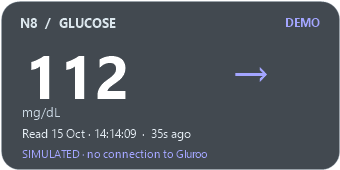
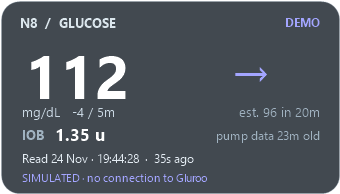
Prepare for public sharing: quick start, troubleshooting, pump-data guide
Add docs/PUMP_DATA.md and tools/tconnectsync (setup, idempotent patch script, hidden runner, upload-gap report). Rework README with requirements, quick start, SmartScreen steps, troubleshooting and console notes; link the latest release. Regenerate screenshots with the IOB row. Add issue templates.

diff --git a/README.md b/README.md
@@ -1,20 +1,40 @@
 # N8 Glucose Overlay
 
-A small native Windows 11 application displaying Gluroo Global Connect glucose readings over your desktop and borderless-windowed games. It includes a transparent, always-on-top, click-through overlay, tray controls, trend arrows, local measurement timestamps, continuously updated reading age, and visible stale/offline states.
+A small native Windows 11 application displaying Gluroo Global Connect glucose readings over your desktop and borderless-windowed games. It includes a transparent, always-on-top, click-through overlay, tray controls, trend arrows, change per 5 minutes, a 20-minute estimate, insulin on board (IOB), local measurement timestamps, continuously updated reading age, and visible stale/offline states.
 
-[Download the Windows release](https://github.com/G8rarror/n8-glucose-overlay/releases/tag/v1.0.0)
+[Download the latest Windows release](https://github.com/G8rarror/n8-glucose-overlay/releases/latest)
 
 ![N8 Glucose Overlay displaying simulated data](docs/overlay-demo.png)
 
+> **Secondary display only.** N8 shows data that may be minutes (glucose) or about an hour (pump data) old. It has no alarms and gives no treatment advice. Use the CGM, pump, or meter for every medical decision. N8 is an independent project, not affiliated with Gluroo, Dexcom, or Tandem.
+
+## What you need
+
+- A Windows 11 PC (Windows 10 with .NET Framework 4.8 should also work but is untested). Nothing else to install.
+- A [Gluroo](https://gluroo.com) account receiving CGM readings (for example from a Dexcom G7), with **Gluroo Global Connect / Nightscout** access turned on.
+- Optional, for the IOB row: pump data reaching Gluroo. See [docs/PUMP_DATA.md](docs/PUMP_DATA.md).
+
+## Quick start
+
+1. Download the **N8-Glucose-Overlay** ZIP from [Releases](https://github.com/G8rarror/n8-glucose-overlay/releases/latest) and extract it (right-click → **Extract All**).
+2. Double-click **N8GlucoseOverlay.exe**. If Windows shows **"Windows protected your PC"**, click **More info → Run anyway** (see [Windows warning](#windows-warning)).
+3. In Gluroo on your phone, find your Nightscout URL and **API Secret Token** (details below).
+4. Paste both into N8's Settings window and click **Save & connect**.
+5. Drag the overlay where you want it (`Ctrl+Alt+G` toggles move mode), then lock it. Run **Install.cmd** if you want a Start menu entry.
+
 ## Run
 
-1. Extract **N8-Glucose-Overlay-1.0.0.zip** to a folder you can write to.
+1. Extract the **N8-Glucose-Overlay** ZIP to a folder you can write to.
 2. Double-click **N8GlucoseOverlay.exe**. No administrator rights are needed.
 3. In Gluroo, open **Connections → DIY / Nightscout (Loop)** and generate or copy your Nightscout URL and credential. Some versions place this under Settings → Gluroo Global Connect Nightscout.
 4. Paste the exact base URL, such as `https://your-id.ns.gluroo.com`, into Settings. Paste the **API Secret Token** with the plain format selected, or choose **API Secret Header (SHA-1)** and paste its 40-character value.
 5. Select **Save & connect**. The first request starts within a second when permitted by the request cooldown. If Gluroo has readings, the overlay displays the latest one. If it is empty, confirm readings are reaching Gluroo on your phone.
 
-The Windows 11 built-in .NET Framework 4.8/4.8.1 is used. No SDK, Node, Python, WebView, account registration, or separate hosting is required to run the release. The executable is unsigned; Windows may show its normal publisher/reputation prompt. Review the included source and build locally if preferred.
+The Windows 11 built-in .NET Framework 4.8/4.8.1 is used. No SDK, Node, Python, WebView, account registration, or separate hosting is required to run the release.
+
+### Windows warning
+
+The executable is not code-signed, so Windows SmartScreen may say **"Windows protected your PC"** the first time. Click **More info**, check the app name is `N8GlucoseOverlay.exe`, and click **Run anyway**. If you prefer, compare the ZIP against the `.sha256` file on the release page (`Get-FileHash .\N8-Glucose-Overlay-<version>.zip`), or review the source and [build it yourself](#build-from-source).
 
 To try the layout without credentials, check **Offline demo** in Settings, or run:
 
@@ -84,7 +104,31 @@ It uses your saved connection, sends one GET request to Gluroo's documented trea
 
 ## Insulin on board
 
-The IOB row shows Gluroo's own insulin-on-board figure (`glurooIob` from `GET /api/v1/devicestatus.json?count=1`), fetched with a glucose poll at most every 10 minutes and hidden once 25 minutes old. It is only as current as the pump data in Gluroo: Tandem's phone app uploads about hourly, so recent boluses may be missing. `pump data Xm old` shows that age, in amber after 75 minutes. On the PC running tconnectsync it is read locally from `%LOCALAPPDATA%\tconnectsync\sync.log`. On other PCs it is estimated from the newest pump basal or bolus in `GET /api/v1/treatments.json?count=5` and marked `~`; it can read older than the truth, never newer. The pump screen is the authoritative IOB.
+The IOB row shows Gluroo's own insulin-on-board figure (`glurooIob` from `GET /api/v1/devicestatus.json?count=1`), fetched with a glucose poll at most every 10 minutes and hidden once 25 minutes old. It needs pump data in Gluroo; [docs/PUMP_DATA.md](docs/PUMP_DATA.md) explains how to get Tandem pump data there, either with Gluroo's built-in Tandem connection or with [tconnectsync](https://github.com/jwoglom/tconnectsync) and the helper scripts in [`tools/tconnectsync`](tools/tconnectsync). It is only as current as the pump data in Gluroo: Tandem's phone app uploads about hourly, so recent boluses may be missing. `pump data Xm old` shows that age, in amber after 75 minutes. On the PC running tconnectsync it is read locally from `%LOCALAPPDATA%\tconnectsync\sync.log`. On other PCs it is estimated from the newest pump basal or bolus in `GET /api/v1/treatments.json?count=5` and marked `~`; it can read older than the truth, never newer. The pump screen is the authoritative IOB.
+
+## Troubleshooting
+
+| Symptom | What to check |
+| --- | --- |
+| No overlay visible | Look for the N8 icon under the tray's hidden-icons chevron. Use tray → **Move to primary display**, or `Ctrl+Alt+H` in case it is hidden. |
+| **WAITING**, or "check Gluroo URL" | Confirm readings appear in the Gluroo app. Check the URL is the base address only (`https://your-id.ns.gluroo.com`), with no path or token. |
+| "Authentication failed · update credentials" | The URL and token must come from the same Gluroo connection. Paste the plain **API Secret Token** with the plain format selected, or the 40-character hex value with **SHA-1** selected. |
+| **STALE** | Gluroo has no new reading. Check the phone running the CGM app has signal and is uploading. |
+| **OFFLINE** | The PC cannot reach Gluroo. It retries automatically, backing off up to 15 minutes. |
+| "Daily API limit · paused until 00:00 UTC" | Gluroo's daily request limit (shared by every app using your Gluroo account) was reached. Fewer PCs or a longer polling interval helps. |
+| IOB row missing | Gluroo has no IOB yet (no pump data), or IOB has not refreshed in 25 minutes. See [docs/PUMP_DATA.md](docs/PUMP_DATA.md). |
+| IOB shows 0.00 after a bolus | Pump uploads are about hourly; wait for the next one. If it stays 0, set **Rapid Acting** insulin in Gluroo's insulin settings. |
+| "pump data age unknown" or amber age | No pump record found, or none in 75 minutes. Check the phone's Tandem app is running, and run `upload-gaps.ps1` if you use tconnectsync. |
+| Hidden behind a game | Switch the game to borderless-windowed. Exclusive fullscreen covers every overlay. |
+| "Windows protected your PC" | See [Windows warning](#windows-warning). |
+
+## Consoles, Mac, and phones
+
+N8 is Windows-only. Xbox, PlayStation, and Switch do not allow third-party overlays over games. You can still see N8 while playing console games by streaming the console to a Windows PC (the Xbox app or PS Remote Play) in a window, which puts N8 on top as with any PC game. On phones and watches, use the Gluroo and Dexcom apps directly.
+
+## Contributing and feedback
+
+Bug reports and ideas are welcome through [Issues](https://github.com/G8rarror/n8-glucose-overlay/issues). Please never post your Gluroo URL, token, Tandem login, or screenshots showing them. Pull requests should keep the app read-only and pass `package.cmd`. Licensed under the [MIT License](LICENSE).
 
 ## Uninstall
 

diff --git a/docs/PUMP_DATA.md b/docs/PUMP_DATA.md
@@ -1,0 +1,67 @@
+# Getting pump data into Gluroo (for the IOB row)
+
+N8's glucose row only needs Gluroo. The **IOB** row and **pump data age** need the pump's basal and bolus records to reach Gluroo too, because N8 shows Gluroo's own insulin-on-board figure. N8 never talks to the pump; it only reads Gluroo.
+
+Tandem pumps (t:slim X2, Mobi) upload to Tandem Source through the phone app, roughly **once an hour**. Nothing on the PC can make that faster, so IOB in Gluroo can be up to about an hour behind the pump. The pump screen is always the authoritative IOB.
+
+There are two ways to copy Tandem Source data into Gluroo. **Use only one.** Running both uploads every bolus twice, which doubles Gluroo's IOB.
+
+## Option A: Gluroo's built-in Tandem connection (simplest)
+
+In Gluroo, open the insulin delivery settings, choose your Tandem pump, and sign in to t:connect / Tandem Source there. Also set **Menu > Settings > Insulin > Rapid Acting** to the insulin in the pump, which Gluroo needs to calculate IOB. N8 has not been tested against this route, but it reads the same Gluroo endpoints, so the IOB row should work. The pump-data age is then estimated from Gluroo's newest pump record and shown with `~`.
+
+## Option B: tconnectsync on one Windows PC
+
+[tconnectsync](https://github.com/jwoglom/tconnectsync) is an open-source tool that reads Tandem Source and uploads to any Nightscout-compatible site, including Gluroo. Running it on the PC that also runs N8 gives an exact pump-data age, read from its log. Run it on **one PC only**; other PCs running N8 still get IOB from Gluroo.
+
+It is configured here for `BASAL BOLUS` only. That keeps it to adding records: it never deletes anything in Gluroo and never contacts the pump.
+
+### Install
+
+1. Install [Python](https://www.python.org/downloads/windows/) 3.11 or newer (tested with 3.14) and tick **Add python.exe to PATH**.
+2. Copy the files from [`tools/tconnectsync`](../tools/tconnectsync) to `%LOCALAPPDATA%\tconnectsync`.
+3. In a Command Prompt:
+
+   ```bat
+   cd /d "%LOCALAPPDATA%\tconnectsync"
+   python -m venv venv
+   venv\Scripts\python.exe -m pip install tconnectsync==3.0.3
+   powershell -NoProfile -ExecutionPolicy Bypass -File apply-patches.ps1
+   powershell -NoProfile -ExecutionPolicy Bypass -File setup-secrets.ps1
+   ```
+
+   `setup-secrets.ps1` asks for the Tandem Source login (the account the pump uploads to), region, time zone and Gluroo's **plain API Secret Token**. It writes `.env` readable only by your Windows account. If N8 is already set up, it reuses N8's Gluroo URL and checks the token matches.
+
+4. Try it once in the foreground:
+
+   ```bat
+   venv\Scripts\python.exe -m tconnectsync --features BASAL BOLUS
+   ```
+
+   It should log in, find the pump, and upload recent basal and bolus records. Check that they appear in Gluroo.
+
+5. Start it at sign-in: press `Win+R`, open `shell:startup`, and put a shortcut to `start-hidden.vbs` there (or copy the file). It runs `run-sync.cmd` without a window, checks Tandem Source every 120 seconds, logs to `sync.log`, and restarts after 60 seconds if it ever stops. Then sign out and back in, or double-click `start-hidden.vbs`.
+
+### The two patches
+
+`apply-patches.ps1` makes two small changes to tconnectsync 3.0.3. Both are still needed as of tconnectsync's current main branch:
+
+- **Clock skew on login.** If the PC's clock is a few seconds behind Tandem's, login fails with `ImmatureSignatureError: The token is not yet valid` and syncing stops. The patch allows 60 seconds of skew.
+- **Local end time.** On a PC not set to UTC, the end of the sync window was treated as UTC, which can give the newest basal record a negative duration. The patch treats it as local time.
+
+`pip install --upgrade tconnectsync` overwrites both; run `apply-patches.ps1` again afterwards. If a future version changes the code, the script refuses to patch and says so.
+
+### Checking that uploads are regular
+
+```bat
+powershell -NoProfile -ExecutionPolicy Bypass -File "%LOCALAPPDATA%\tconnectsync\upload-gaps.ps1"
+```
+
+This read-only script lists each new upload from the pump, when this PC first saw it (**lag**) and the time since the previous one (**gap**). Typical values are a gap of 60-70 minutes and a lag of 2-7 minutes.
+
+- A **gap** well over 75 minutes points to the phone: keep the Tandem app running (do not swipe it away), keep Bluetooth on, and keep the pump battery charged.
+- A large **lag** points to the PC: check that tconnectsync is running and read the end of `sync.log`.
+
+### Stopping or removing it
+
+Remove the Startup entry, then end the hidden `cmd.exe` and `python.exe` processes in Task Manager (or sign out). Delete `%LOCALAPPDATA%\tconnectsync` to remove it completely, including the saved Tandem password.
